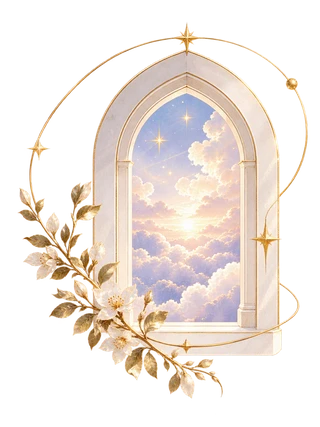
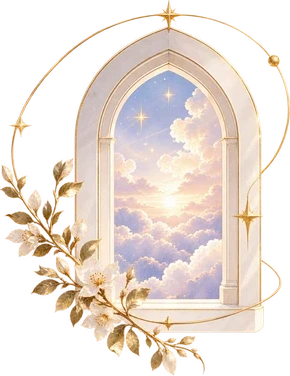
Reading: larger, equal-size summary illustrations; remove the white veil
- Trim the transparent padding from gc-crystal/window/book/path so only
  the object remains, then size them to equal visual area (width scaled by
  sqrt of aspect ratio): 184px base on desktop, 100px on mobile
- Remove the ivory veil behind the four blocks; they sit on the page
  background directly
- Mobile: 03's book sits below its text at the right so long lines don't
  wrap awkwardly
- renderReadingPage lock hash updated (img gets a gc-<name> class)

Claude-Session: https://claude.ai/code/session_01KWTtJBbV1tTkbqudQevH8t

diff --git a/app.html b/app.html
@@ -3640,16 +3640,11 @@
      · 段与段之间一条香槟金细线 + ✦,间距 64–80px
      · 过场:置中、大留白、不放卡片也不放按钮
      ============================================================ */
-  /* 满版的一片柔和象牙 / 薰衣草底:上下两端淡出、左右铺到页缘,没有边,不是一个框 */
+  /* 四段直接写在页面底图上(用户要求拿掉后面那片白色柔光) */
   #dpage.reading-page .dp-forcard{
     position:relative;
     background:none;border:0;border-radius:0;box-shadow:none;overflow:visible;
     padding:clamp(28px,4vw,48px) clamp(24px,5vw,56px) 0;margin-bottom:0
-  }
-  #dpage.reading-page .dp-forcard::before{
-    content:"";position:absolute;z-index:0;pointer-events:none;
-    top:-40px;bottom:-60px;left:calc(50% - 50vw);width:100vw;
-    background:linear-gradient(180deg,rgba(250,245,240,0) 0,rgba(250,245,240,.86) 90px,rgba(247,242,246,.86) calc(100% - 110px),rgba(247,242,246,0) 100%)
   }
   /* 插画往页缘出血时,在页面边缘被裁掉,不会把整页撑出横向卷轴
      (overflow-x:clip 不会产生卷动容器,底下的 sticky / 卷动都不受影响) */
@@ -3698,26 +3693,32 @@
   #dpage.reading-page .dp-forcard .gc > div{grid-area:d;line-height:1.85}
   #dpage.reading-page .dp-forcard .gc .gc-art{
     grid-area:art;position:static;inset:auto;transform:none;display:block;
-    width:clamp(88px,28vw,200px);max-width:none;height:auto;aspect-ratio:auto;
+    /* 素材已裁到物体本身(去掉四周透明留白);四个物体「看起来一样大」:
+       以同样的面积为准,宽度 = 基准 × √(宽高比) */
+    width:calc(var(--gs,184px) * var(--gm,1));max-width:none;height:auto;aspect-ratio:auto;
     object-fit:contain;background:transparent;opacity:.92;
     -webkit-mask-image:none;mask-image:none
   }
+  #dpage.reading-page .dp-forcard .gc .gc-art.gc-crystal{--gm:1}
+  #dpage.reading-page .dp-forcard .gc .gc-art.gc-window{--gm:.88}
+  #dpage.reading-page .dp-forcard .gc .gc-art.gc-book{--gm:1.21}
+  #dpage.reading-page .dp-forcard .gc .gc-art.gc-path{--gm:1.06}
   /* 01:编号、标题、正文靠左(文字约 66%),图在右上,对齐标题 / 第一段,略往右缘靠 */
   #dpage.reading-page .dp-forcard .gc:nth-child(4n+1){
-    grid-template-columns:minmax(0,1fr) clamp(88px,28%,200px);
+    grid-template-columns:minmax(0,1fr) auto;
     grid-template-areas:"no art" "t art" "d art"
   }
   #dpage.reading-page .dp-forcard .gc:nth-child(4n+1) .gc-art{align-self:start;margin:18px -8px 0 0;justify-self:end}
   /* 02:图在左、略高于正文第一行;编号与标题在图的右边;正文从标题下方开始、用满宽 */
   #dpage.reading-page .dp-forcard .gc:nth-child(4n+2),
   #dpage.reading-page .dp-forcard .gc:nth-child(4n+4){
-    grid-template-columns:clamp(88px,28%,200px) minmax(0,1fr);
+    grid-template-columns:auto minmax(0,1fr);
     grid-template-areas:"art no" "art t" "art d";grid-template-rows:auto auto 1fr
   }
   #dpage.reading-page .dp-forcard .gc:nth-child(4n+2) .gc-art{align-self:start}
   /* 03:编号、标题、正文靠左;图在正文块的右下,轻一点、四周留白 */
   #dpage.reading-page .dp-forcard .gc:nth-child(4n+3){
-    grid-template-columns:minmax(0,1fr) clamp(88px,28%,200px);
+    grid-template-columns:minmax(0,1fr) auto;
     grid-template-areas:"no art" "t art" "d art";grid-template-rows:auto auto 1fr
   }
   /* 书往上收到正文最后几行的右下旁(电脑上正文很短,右边有空位);手机上正文会写到右边,就放在正文下方 */
@@ -3761,14 +3762,13 @@
     #dpage.reading-page .dp-forcard .gc > div{font-size:14px}
     /* 手机:插画约内容宽的 26–30%(最多 120px);标题下 22px;行高 1.85;
        文字跟插画至少隔 20px */
-    #dpage.reading-page .dp-forcard .gc{column-gap:20px}
-    #dpage.reading-page .dp-forcard .gc .gc-art{width:100%;max-width:120px}
-    /* 四段同一套:编号 → 标题 → 解读一栏,插画在整栏旁边(不在插画下方) */
-    #dpage.reading-page .dp-forcard .gc:nth-child(4n+1){grid-template-columns:minmax(0,1fr) 24%}
-    /* 03 的书是扁的、句子较长:插画栏收窄一点,句尾不会单独掉一个字 */
-    #dpage.reading-page .dp-forcard .gc:nth-child(4n+3){grid-template-columns:minmax(0,1fr) 19%;column-gap:14px}
-    #dpage.reading-page .dp-forcard .gc:nth-child(4n+2),
-    #dpage.reading-page .dp-forcard .gc:nth-child(4n+4){grid-template-columns:24% minmax(0,1fr)}
+    /* 四段同一套:编号 → 标题 → 解读一栏,插画在整栏旁边(不在插画下方)。
+       插画放大到基准 100px;文字栏变窄时,换行用 balance 平均分两行,不会句尾单掉一个字 */
+    #dpage.reading-page .dp-forcard .gc{column-gap:16px}
+    #dpage.reading-page .dp-forcard .gc .gc-art{--gs:100px}
+    /* 03:书放在正文下方的右边(正文用满整行,长句不会被挤断) */
+    #dpage.reading-page .dp-forcard .gc:nth-child(4n+3){grid-template-columns:minmax(0,1fr);grid-template-areas:"no" "t" "d" "art"}
+    #dpage.reading-page .dp-forcard .gc:nth-child(4n+3) .gc-art{margin-top:6px}
   }
 
   /* 页尾「返回主题列表」按钮换成用户给的金色星徽箭头图——图本身自带
@@ -12890,7 +12890,7 @@ window.Guide = (function () {
             /* 不能用 loading="lazy"——这张图本身是 position:absolute,部分浏览器算不出
                它离视口多近,懒加载的判定可能永远不触发。这四段在页面最上面,
                本来就在首屏附近,立即加载更保险。 */
-            (icon ? '<img class="gc-art" src="assets/reading/gc-' + icon + '.webp" alt="" aria-hidden="true" decoding="async">' : "") +
+            (icon ? '<img class="gc-art gc-' + icon + '" src="assets/reading/gc-' + icon + '.webp" alt="" aria-hidden="true" decoding="async">' : "") +
             '<span class="no" aria-hidden="true">' + ("0" + (i + 1)).slice(-2) + "</span>" +
             '<b>' + esc0(cd.title) + "</b>" +
             '<div data-saveable data-source="' + esc0(favSrc) + '" data-source-type="life_blueprint"' +

diff --git a/tests/run-tests.js b/tests/run-tests.js
@@ -2041,7 +2041,8 @@ function testTopicLayout() {
   // 是这一页自己刻意的改动。
   // 再更新一次:四段摘要改成编辑式(加编号、正文在逗号后断行),后面新增
   // 「现在，往深一点看」过场。是这一页自己刻意的改动。
-  checkEq("[tp] 生命蓝图这一页没有被改", lock("renderReadingPage"), "435f12230d85c2f4");
+  // 再更新一次:四段摘要的插画加上 gc-<名称> class,让四个物体按面积调成一样大。
+  checkEq("[tp] 生命蓝图这一页没有被改", lock("renderReadingPage"), "3e8825db2e28b9af");
   checkEq("[tp] 三十道探索题这一页没有被改", lock("renderQPage"), "893d3c71d47ab628");
 
   /* —— ② 文字没有被动过 —— */
